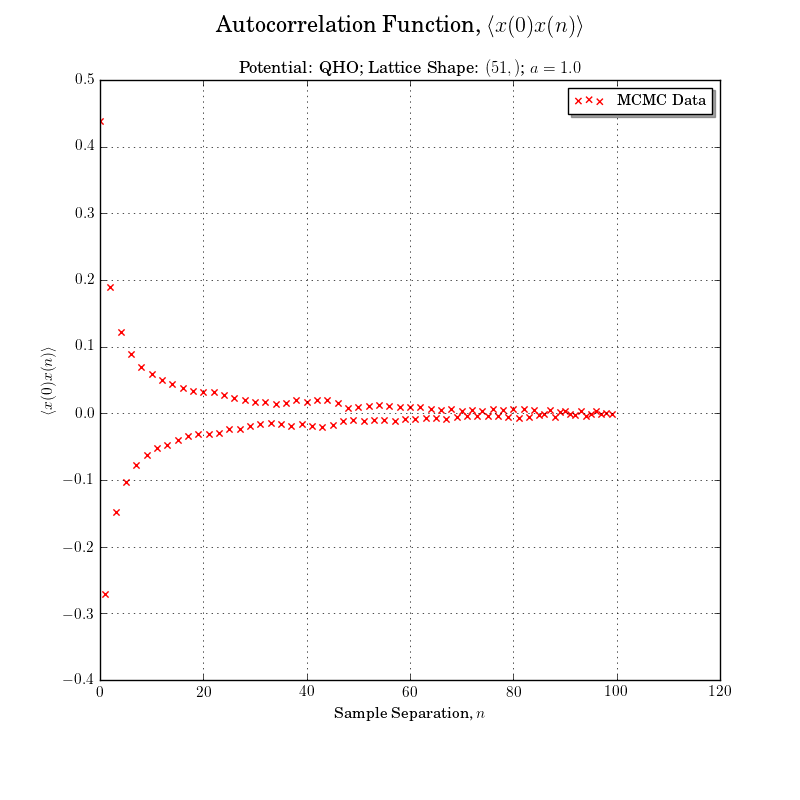
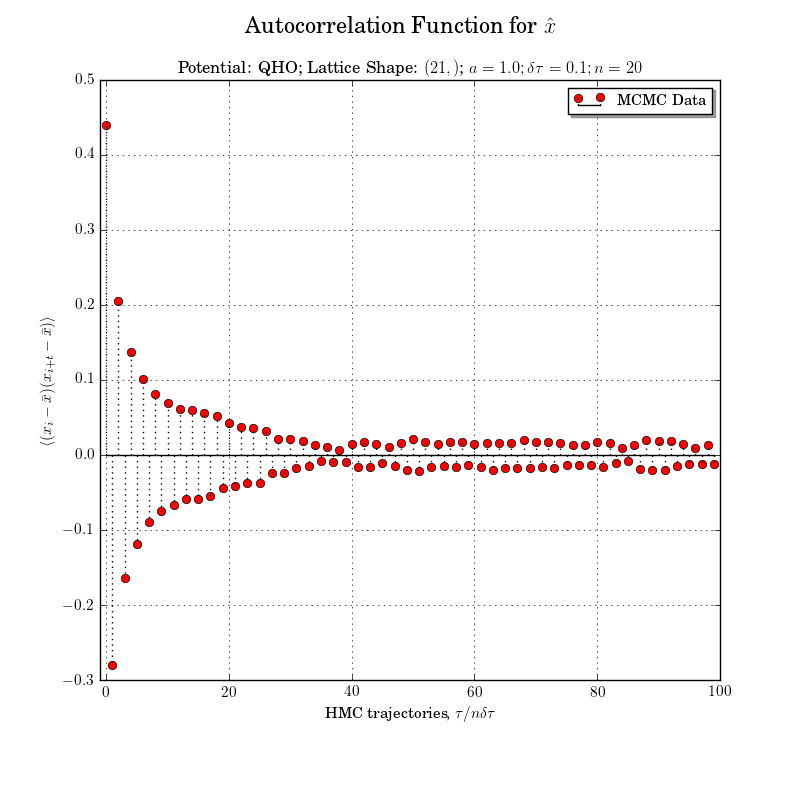
cleaned up a/c plot

diff --git a/results/common/acorr1d_x2.py b/results/common/acorr1d_x2.py
@@ -30,13 +30,13 @@ def plot(ac_fn, subtitle, save, theory=None):
     ax =[]
     ax.append(fig.add_subplot(111))
     
-    fig.suptitle(r"Autocorrelation Function, $\langle x(0)x(n)\rangle$",
+    fig.suptitle(r"Autocorrelation Function for $\hat{x}$",
         fontsize=pp.ttfont)
     
     ax[0].set_title(subtitle, fontsize=pp.ttfont-4)
     
-    ax[0].set_xlabel(r'Sample Separation, $n$')
-    ax[0].set_ylabel(r'$\langle x(0)x(n) \rangle$')
+    ax[0].set_xlabel(r'HMC trajectories, $\tau / n\delta\tau$')
+    ax[0].set_ylabel(r'$\langle (x_i - \bar{x})(x_{i+t} - \bar{x}) \rangle$')
     
     steps = np.linspace(0, ac_fn.size, ac_fn.size, False)    # get x values
     
@@ -57,10 +57,10 @@ def plot(ac_fn, subtitle, save, theory=None):
 #         linewidth=3., linestyle = '-', alpha=0.2, label=r'fit: $y = e^{'\
 #             + '{:.2f}x'.format(m)+'}e^{'+'{:.2f}'.format(c) + r'}$')
     
-    f = ax[0].scatter(steps, ac_fn, color='red', marker='x',
+    f = ax[0].stem(steps, ac_fn, markerfmt='ro', linefmt='k:', basefmt='k-',
         label=r'MCMC Data')
     
-    ax[0].set_xlim(xmin=0)
+    ax[0].set_xlim(xmin=-1)
 #    ax[0].set_yscale("log", nonposy='clip')
     
     ax[0].legend(loc='best', shadow=True, fontsize = pp.axfont)
@@ -90,8 +90,8 @@ def main(x0, pot, file_name, n_samples, n_burn_in, c_len=20, step_size = .5, n_s
       n_steps = n_steps)
     c = acorr.Autocorrelations_1d(model, 'run', 'samples')
     
-    subtitle = r"Potential: {}; Lattice Shape: ${}$; $a={:.1f}$".format(
-        pot.name, x0.shape, spacing)
+    subtitle = r"Potential: {}; Lattice Shape: ${}$; $a={:.1f}; \delta\tau={:.1f}; n={}$".format(
+        pot.name, x0.shape, spacing, step_size, n_steps)
     length = model.x0.size
     
     

diff --git a/results/acorr1d_x2_qho.py b/results/acorr1d_x2_qho.py
@@ -7,7 +7,7 @@ from hmc.potentials import Quantum_Harmonic_Oscillator as QHO
 file_name = __file__
 pot = QHO(m0=1., mu=1.)
 
-n, dim = 51, 1
+n, dim = 21, 1
 x0 = np.random.random((n,)*dim)
 spacing = 1.
 
